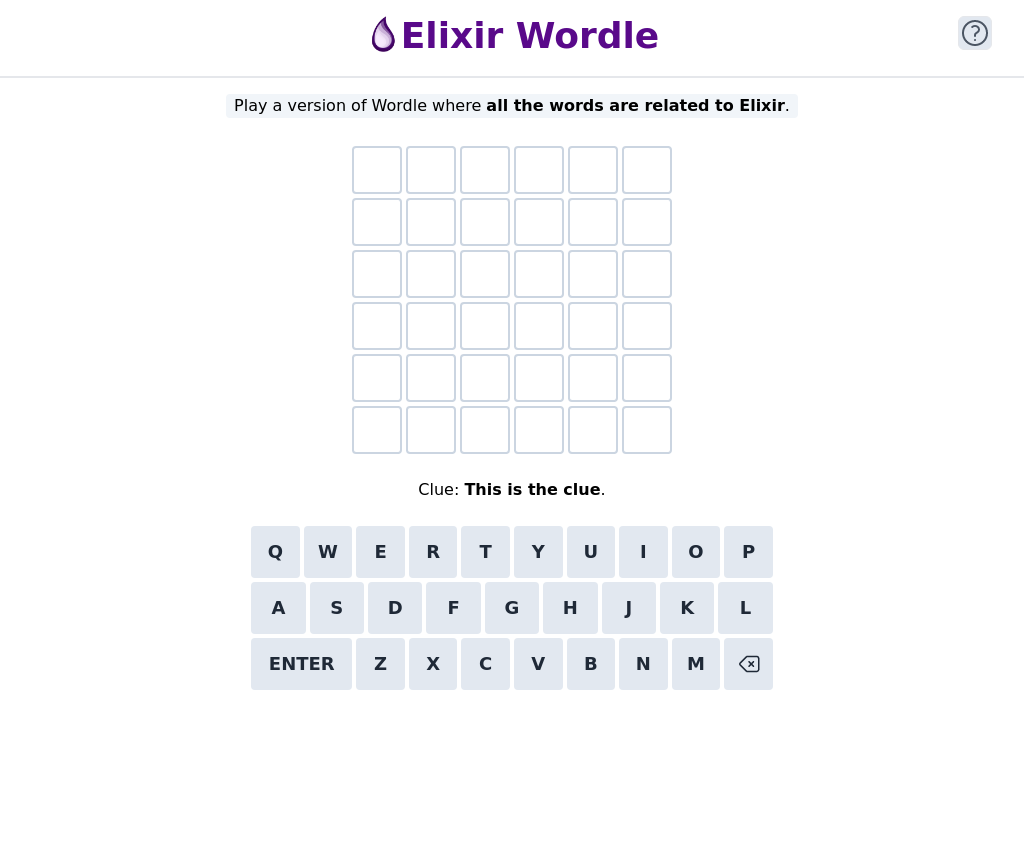
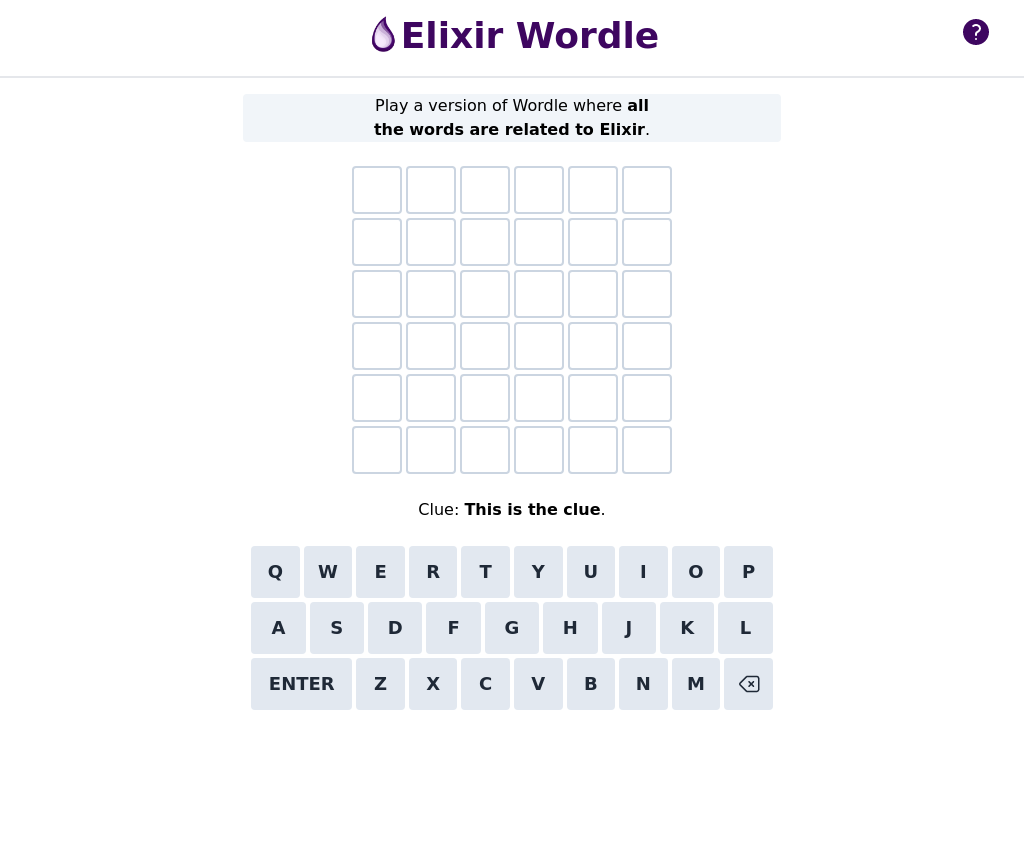
screenshots, change names and add result ones

diff --git a/docs/design.md b/docs/design.md
@@ -32,9 +32,9 @@ Initially, for the first functional version where there is no backend to search 
 
 Table displaying wallaby screenshots with 640px width:
 
-| <img width="500px" alt="Screenshot of wordle page 640px width when word is available" src="/docs/images/screenshots/screenshot-w-640.png" /> |  <img width="500px" alt="Screenshot of wordle page when word is not available" src="/docs/images/screenshots/screenshot-w-unavailable-word-640.png" /> |
+| <img width="500px" alt="Screenshot of wordle page 640px width when word is available" src="/docs/images/screenshots/screenshot-w-640.png" /> |  <img width="500px" alt="Screenshot of wordle page when word is not available" src="/docs/images/screenshots/screenshot-unavailable-word-w-640.png" /> |
 | -- | -- |
-| <img width="500px" alt="Screenshot of wordle page 640px width when rules are displayed" src="/docs/images/screenshots/screenshot-w-instructions-640.png" /> |  |
+| <img width="500px" alt="Screenshot of wordle page 640px width when rules are displayed" src="/docs/images/screenshots/screenshot-rules-w-640.png" /> | <img width="500px" alt="Screenshot of wordle page 640px width when rules are displayed" src="/docs/images/screenshots/screenshot-results-w-640.png" /> |
 
 To examine additional widths, please refer to the [screenshots folder](./images/screenshots/).
 
